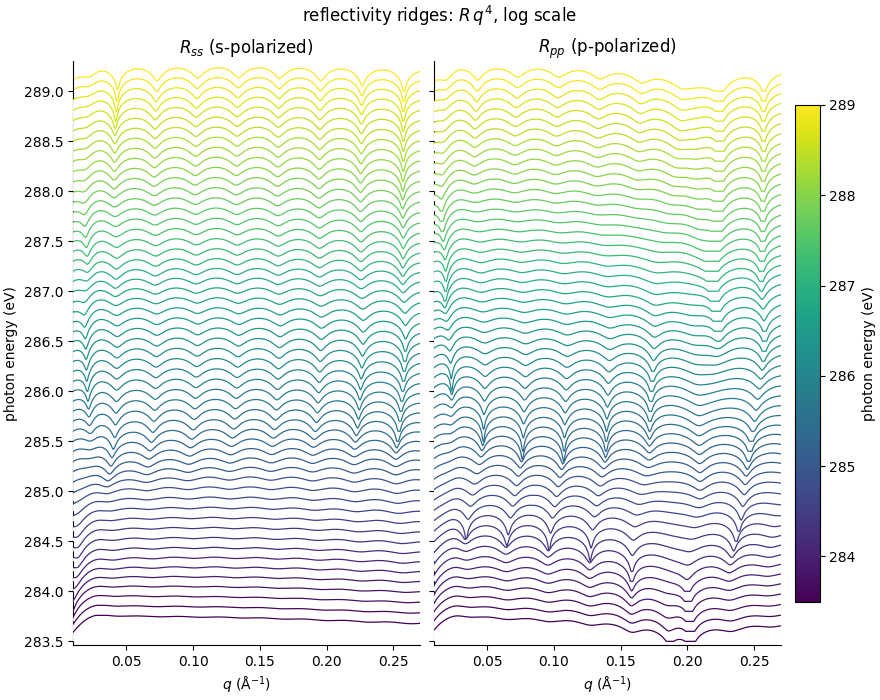
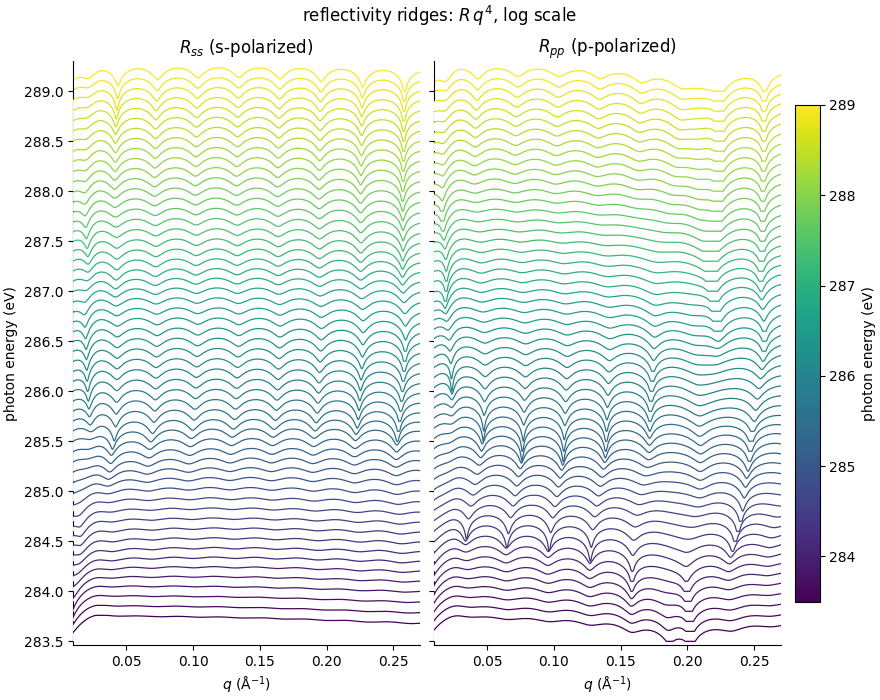
docs: rename third material to znpc_scrambled with swapped and jittered peaks

diff --git a/examples/lineshape_three_material.py b/examples/lineshape_three_material.py
@@ -1,5 +1,5 @@
 #!/usr/bin/env python3
-"""Three-material film: frozen Alq3 and ZnPc fits, a shifted ZnPc, and depth gradients.
+"""Three-material film: frozen Alq3 and ZnPc fits, a scrambled ZnPc, and gradients.
 
 The materials come from the frozen lineshapes fits in
 ``examples/data/lineshapes_materials.json`` (written by
@@ -12,7 +12,9 @@ film on a native SiO2 layer and a silicon substrate: vacuum | film | oxide | Si.
 - ``znpc``: the full uniaxial ZnPc tensor. Each peak's height is the isotropic
   magic-angle strength, and its molecular TDM tilt reproduces the measured
   film-frame anisotropy at the measured molecular tilt `gamma_ref`.
-- ``znpc_shifted``: ZnPc with every peak height nudged by a fixed factor.
+- ``znpc_scrambled``: the ZnPc peak set with three height swaps, jittered heights
+  and small energy shifts, all from one seed. It is a synthetic variant for the
+  demo, not a measured material.
 
 One shared depth shape, a natural cubic `SplineShape` through four knots, drives
 every gradient: the volume fractions, the total density, the orientation gamma,
@@ -54,9 +56,15 @@ DATA_FILE = Path(__file__).resolve().parent / "data" / "lineshapes_materials.jso
 # Illustrative film densities (g/cm^3). The frozen tables are per unit density.
 DENSITY_ALQ3 = 1.31
 DENSITY_ZNPC = 1.60
-# Fixed seed for the shifted-ZnPc height factors.
-SHIFT_SEED = 12345
-SHIFT_RANGE = (0.85, 1.15)
+# Seeded scramble of the ZnPc peaks (one generator, drawn in this order).
+SCRAMBLE_SEED = 2025
+SCRAMBLE_PAIRS = 3  # disjoint height swaps
+SCRAMBLE_TOP = 8  # swap partners come from this many strongest peaks (by F_iso)
+SCRAMBLE_WINDOW = (283.5, 289.5)  # eV, swap candidates lie inside the demo window
+JITTER_SIGMA = 0.15  # lognormal sigma of each height factor
+JITTER_CLIP = (0.7, 1.4)  # height factors are clipped to this range
+SHIFT_SIGMA = 0.05  # eV, Gaussian energy shift of each peak
+SHIFT_CLIP = 0.10  # eV, energy shifts are clipped to +/- this
 
 THICKNESS = 200.0  # film thickness, Angstrom
 N_SLABS = 40
@@ -86,7 +94,7 @@ ALQ3_TILTS_DEG = {
 }
 # ZnPc gamma: interior fractions of the way from MAGIC_ANGLE to gamma_ref.
 ZNPC_GAMMA_FRACTIONS = (0.25, 0.72)
-SHIFTED_GAMMA_FRACTIONS = (0.12, 0.55)
+SCRAMBLED_GAMMA_FRACTIONS = (0.12, 0.55)
 
 
 def make_shape() -> SplineShape:
@@ -244,31 +252,64 @@ def alq3_peaks(shape: Shape, material: dict[str, Any]) -> list[Peak]:
     return peaks
 
 
-def znpc_peaks(
-    material: dict[str, Any], *, factors: NDArray[np.float64] | None = None
-) -> list[Peak]:
-    """ZnPc peaks: height `F_iso`, TDM tilt from `znpc_tilts`, all constant.
-
-    ``factors`` multiplies each height (used for the shifted ZnPc).
-    """
+def znpc_peaks(material: dict[str, Any]) -> list[Peak]:
+    """ZnPc peaks: height `F_iso`, TDM tilt from `znpc_tilts`, all constant."""
     records = material["peaks"]
     _, thetas, _ = znpc_tilts(records)
-    if factors is None:
-        factors = np.ones(len(records))
     return [
-        _gaussian(
-            f"p{i + 1}",
-            rec,
-            znpc_iso(rec) * float(factors[i]),
-            float(thetas[i]),
-        )
+        _gaussian(f"p{i + 1}", rec, znpc_iso(rec), float(thetas[i]))
         for i, rec in enumerate(records)
     ]
 
 
-def shifted_factors(n: int) -> NDArray[np.float64]:
-    """Fixed deterministic height factors in [0.85, 1.15] for the shifted ZnPc."""
-    return np.random.default_rng(SHIFT_SEED).uniform(*SHIFT_RANGE, n)
+def scramble_draw(
+    records: Sequence[dict[str, Any]],
+) -> tuple[list[tuple[int, int]], NDArray[np.float64], NDArray[np.float64]]:
+    """Seeded scramble of the ZnPc peaks: swap pairs, heights and energies.
+
+    Returns the swap pairs (indices into ``records``), the absolute heights
+    after the swaps and the height jitter, and the shifted energies (eV). The
+    swap candidates are the `SCRAMBLE_TOP` strongest peaks by `F_iso` whose
+    original energy lies in `SCRAMBLE_WINDOW`; the seeded generator draws the
+    disjoint pairs among them. Every peak gets a lognormal height factor and a
+    clipped Gaussian energy shift.
+    """
+    rng = np.random.default_rng(SCRAMBLE_SEED)
+    f_iso = np.array([znpc_iso(rec) for rec in records])
+    energy = np.array([float(rec["energy"]) for rec in records])
+    in_window = np.flatnonzero(
+        (energy >= SCRAMBLE_WINDOW[0]) & (energy <= SCRAMBLE_WINDOW[1])
+    )
+    strongest = in_window[np.argsort(-f_iso[in_window])][:SCRAMBLE_TOP]
+    chosen = rng.permutation(strongest)[: 2 * SCRAMBLE_PAIRS]
+    pairs = [(int(a), int(b)) for a, b in chosen.reshape(SCRAMBLE_PAIRS, 2)]
+    heights = f_iso.copy()
+    for a, b in pairs:
+        heights[[a, b]] = f_iso[[b, a]]
+    jitter = np.clip(rng.lognormal(0.0, JITTER_SIGMA, len(records)), *JITTER_CLIP)
+    shift = np.clip(rng.normal(0.0, SHIFT_SIGMA, len(records)), -SHIFT_CLIP, SHIFT_CLIP)
+    return pairs, heights * jitter, energy + shift
+
+
+def scrambled_peaks(material: dict[str, Any]) -> list[Peak]:
+    """ZnPc peaks of the scrambled variant: absolute heights, tilts from `znpc`.
+
+    Tilts and widths stay with their peaks. Only heights and energies change.
+    """
+    records = material["peaks"]
+    _, thetas, _ = znpc_tilts(records)
+    _, heights, energies = scramble_draw(records)
+    return [
+        Peak(
+            "gaussian",
+            label=f"p{i + 1}",
+            energy=float(energies[i]),
+            width=float(rec["width"]),
+            height=float(heights[i]),
+            tdm_tilt=float(thetas[i]),
+        )
+        for i, rec in enumerate(records)
+    ]
 
 
 def curved_gamma(gamma_ref: float, fractions: tuple[float, float]) -> list[float]:
@@ -283,7 +324,6 @@ def build_profile() -> DepthProfile:
     shape = make_shape()
     materials = load_materials()
     gamma_ref, _, _ = znpc_tilts(materials["znpc"]["peaks"])
-    factors = shifted_factors(len(materials["znpc"]["peaks"]))
 
     alq3 = PeakSumSLD(
         alq3_peaks(shape, materials["alq3"]),
@@ -297,14 +337,14 @@ def build_profile() -> DepthProfile:
         density=DENSITY_ZNPC,
         name="znpc",
     )
-    znpc_shifted = PeakSumSLD(
-        znpc_peaks(materials["znpc"], factors=factors),
+    znpc_scrambled = PeakSumSLD(
+        scrambled_peaks(materials["znpc"]),
         baseline=baseline_table(materials["znpc"]),
         density=DENSITY_ZNPC,
-        name="znpc_shifted",
+        name="znpc_scrambled",
     )
     return DepthProfile(
-        Mix([alq3, znpc, znpc_shifted], rule="linear"),
+        Mix([alq3, znpc, znpc_scrambled], rule="linear"),
         thickness=THICKNESS,
         n_slabs=N_SLABS,
         mesh="uniform",
@@ -314,7 +354,7 @@ def build_profile() -> DepthProfile:
         phi=[
             field(shape, "phi_alq3", (0.85, 0.55, 0.45, 0.40)),
             field(shape, "phi_znpc", (0.10, 0.33, 0.35, 0.35)),
-            field(shape, "phi_znpc_shifted", (0.05, 0.12, 0.20, 0.25)),
+            field(shape, "phi_znpc_scrambled", (0.05, 0.12, 0.20, 0.25)),
         ],
         # Orientation gamma (radians), one field per material. Alq3 has a
         # face-on surface (gamma = 0) and reaches the magic angle at the
@@ -328,8 +368,8 @@ def build_profile() -> DepthProfile:
             ),
             field(
                 shape,
-                "gamma_znpc_shifted",
-                curved_gamma(gamma_ref, SHIFTED_GAMMA_FRACTIONS),
+                "gamma_znpc_scrambled",
+                curved_gamma(gamma_ref, SCRAMBLED_GAMMA_FRACTIONS),
             ),
         ],
         # Total density, after mixing: changes mostly toward z = THICKNESS.
@@ -390,7 +430,7 @@ def save_channels(path: Path) -> None:
         (
             "volume fraction $\\phi$",
             1.0,
-            [("phi_0", "alq3"), ("phi_1", "znpc"), ("phi_2", "znpc_shifted")],
+            [("phi_0", "alq3"), ("phi_1", "znpc"), ("phi_2", "znpc_scrambled")],
         ),
         ("total density scale", 1.0, [("density_scale", "density_scale")]),
         (
@@ -399,7 +439,7 @@ def save_channels(path: Path) -> None:
             [
                 ("orientation_0", "alq3"),
                 ("orientation_1", "znpc"),
-                ("orientation_2", "znpc_shifted"),
+                ("orientation_2", "znpc_scrambled"),
             ],
         ),
         (
@@ -450,7 +490,7 @@ def _building_block(
 
 
 def save_materials(path: Path) -> None:
-    """Building blocks: unit-density beta(E) of each material, and the ZnPc shift."""
+    """Building blocks: unit-density beta(E) of each material, and the ZnPc scramble."""
     import matplotlib.pyplot as plt
     from matplotlib.gridspec import GridSpec
 
@@ -458,7 +498,8 @@ def save_materials(path: Path) -> None:
     alq3_rec = materials["alq3"]
     znpc_rec = materials["znpc"]
     gamma_ref, _, _ = znpc_tilts(znpc_rec["peaks"])
-    factors = shifted_factors(len(znpc_rec["peaks"]))
+    _, scr_heights, _ = scramble_draw(znpc_rec["peaks"])
+    f_iso = np.array([znpc_iso(rec) for rec in znpc_rec["peaks"]])
 
     # Alq3: isotropic, fitted (substrate-end) heights, unit density.
     alq3_fitted = _const_alq3(alq3_rec)
@@ -473,12 +514,12 @@ def save_materials(path: Path) -> None:
         rotation=gamma_ref,
     )
     znpc_t = znpc_src.tensor_at_many(FINE)
-    shifted_src = _building_block(
-        znpc_peaks(znpc_rec, factors=factors),
+    scrambled_src = _building_block(
+        scrambled_peaks(znpc_rec),
         baseline_table(znpc_rec),
         rotation=gamma_ref,
     )
-    shifted_t = shifted_src.tensor_at_many(FINE)
+    scrambled_t = scrambled_src.tensor_at_many(FINE)
 
     fig = plt.figure(figsize=(9.2, 5.6), constrained_layout=True)
     grid = GridSpec(2, 3, figure=fig, height_ratios=[3.0, 1.0])
@@ -531,13 +572,13 @@ def save_materials(path: Path) -> None:
     )
     ax_s.plot(
         FINE,
-        shifted_t.imag.trace(axis1=1, axis2=2) / 3.0,
+        scrambled_t.imag.trace(axis1=1, axis2=2) / 3.0,
         color="C1",
         lw=1.6,
         ls="--",
-        label="znpc_shifted, isotropic",
+        label="znpc_scrambled, isotropic",
     )
-    ax_s.set_title("znpc vs znpc_shifted")
+    ax_s.set_title("znpc vs znpc_scrambled")
 
     for ax in (ax_a, ax_z, ax_s):
         ax.set_xlim(283.5, 289.0)
@@ -548,13 +589,21 @@ def save_materials(path: Path) -> None:
     ax_z.tick_params(labelleft=False)
     ax_s.tick_params(labelleft=False)
 
-    pct = 100.0 * (factors - 1.0)
-    centers = np.array([rec["energy"] for rec in znpc_rec["peaks"]])
+    # Only peaks inside the demo window are drawn; the others are left out.
+    centers = np.array([float(rec["energy"]) for rec in znpc_rec["peaks"]])
+    inside = (centers >= SCRAMBLE_WINDOW[0]) & (centers <= SCRAMBLE_WINDOW[1])
+    pct = (100.0 * (scr_heights / f_iso - 1.0))[inside]
+    centers = centers[inside]
     ax_strip.bar(centers, pct, width=0.12, color=np.where(pct >= 0, "C2", "C3"))
     ax_strip.axhline(0.0, color="0.4", lw=0.8)
-    ax_strip.set_xlim(283.5, 289.2)
+    span = float(np.abs(pct).max())
+    ax_strip.set_ylim(-1.25 * span, 1.25 * span)
+    ax_strip.set_xlim(*SCRAMBLE_WINDOW)
     ax_strip.set_ylabel("height change (%)")
-    ax_strip.set_xlabel("ZnPc peak energy (eV), znpc_shifted relative to znpc")
+    ax_strip.set_xlabel(
+        "ZnPc peak energy (eV, original), znpc_scrambled relative to znpc; "
+        "peaks inside the window only"
+    )
     ax_strip.grid(True, axis="y", alpha=0.25)
     fig.savefig(path, dpi=150)
     plt.close(fig)

diff --git a/docs/guides/lineshapes_integration/peak_gradients.md b/docs/guides/lineshapes_integration/peak_gradients.md
@@ -25,8 +25,8 @@ default path).
   the depth gradients.
 - **`znpc`** is the full uniaxial ZnPc tensor, with 19 peaks. Each peak's
   height and TDM tilt come from the ZnPc derivation below.
-- **`znpc_shifted`** is the same ZnPc peak set, with each height multiplied by
-  a fixed factor.
+- **`znpc_scrambled`** is a synthetic variant of the ZnPc peak set, with some
+  heights swapped, jittered heights and small energy shifts. See below.
 
 The density values are illustrative, not measured: Alq3 is 1.31 g/cm$^3$ and
 ZnPc is 1.60 g/cm$^3$. Each `PeakSumSLD` takes its density as an argument,
@@ -81,11 +81,21 @@ strong $\pi^*$ peaks. ZnPc runs from amorphous (`MAGIC_ANGLE`) at the surface
 to that ordered state at the substrate. Some peaks are clipped to the nearest
 reachable tilt, at 0 or $\pi/2$.
 
-### Shifted ZnPc
+### Scrambled ZnPc
 
-`znpc_shifted` has the same peak energies, widths, tilts and baseline as
-`znpc`. Each height is multiplied by a fixed factor between 0.85 and 1.15,
-drawn from `np.random.default_rng(12345).uniform(0.85, 1.15, 19)`.
+`znpc_scrambled` is a synthetic variant for the demo, not a measured material.
+It keeps the `znpc` baseline, widths and per-peak TDM tilts, and changes the
+heights and energies from one generator, `np.random.default_rng(2025)`: three
+disjoint height swaps among the 8 strongest peaks inside 283.5 to 289.5 eV,
+each height times a lognormal factor (sigma 0.15, clipped to 0.7 to 1.4), and
+each energy shifted by a Gaussian (sigma 0.05 eV, clipped to $\pm$0.10 eV).
+The swapped pairs, by original energy, are:
+
+| Swap | Peak energies (eV) |
+|---|---|
+| 1 | 285.06 and 284.40 |
+| 2 | 285.39 and 289.02 |
+| 3 | 284.03 and 287.23 |
 
 ### Construction code
 
@@ -136,14 +146,14 @@ Each channel follows this profile:
 - **Volume fractions.** Alq3 starts at 0.85 and falls fast over the top 60 Å
   to 0.55, then levels off near 0.40 at $z=T$. The two ZnPc layers enrich
   toward the substrate. ZnPc rises from 0.10 to about 0.36 near 90 Å, then
-  settles at 0.35. Shifted ZnPc rises from 0.05 to 0.25. The three fractions
+  settles at 0.35. Scrambled ZnPc rises from 0.05 to 0.25. The three fractions
   sum to 1 at every knot.
 - **Total density.** `density_scale` multiplies the mixed tensor after mixing.
   It runs from 0.85 at the surface to 1.15 at $z=T$. Most of the rise is in
   the lower half.
 - **Orientation.** Alq3 stays near face-on at the surface and reaches the
   magic angle at $z=T$. Both ZnPc layers start at the magic angle and order
-  toward $\gamma_{\rm ref}$, 73.5°, with shifted ZnPc ordering a little later
+  toward $\gamma_{\rm ref}$, 73.5°, with scrambled ZnPc ordering a little later
   in depth.
 - **Alq3 peaks.** The heights of p1 to p3 and the TDM tilts of p1, p2, p4 and
   p5 follow the outline table above.
@@ -159,7 +169,7 @@ Angles are shown in degrees.
 
 Unit-density $\beta(E)$ of alq3 (isotropic), of znpc (the $[0,0]$ and $[2,2]$
 diagonal at $\gamma_{\rm ref}$, and their average), and of znpc against
-znpc_shifted (isotropic average), with the shifted height changes below.
+znpc_scrambled (isotropic average). The strip below shows the per-peak height change of znpc_scrambled relative to znpc, for the peaks inside 283.5 to 289.5 eV only.
 
 ![Building blocks](../../assets/lineshape-gradient-materials.png)
 

diff --git a/docs/guides/lineshapes_integration/index.md b/docs/guides/lineshapes_integration/index.md
@@ -88,7 +88,7 @@ with more detail.
 ## Next
 
 - [Peak gradients](peak_gradients.md): a three-material film (frozen Alq3 and
-  ZnPc fits, a full ZnPc tensor and a shifted ZnPc) with depth-varying
+  ZnPc fits, a full ZnPc tensor and a scrambled ZnPc) with depth-varying
   composition, orientation and peaks, a dense energy set with NEXAFS and ridge
   figures, and the knot fit.
 - [Building structures](../building_structures/index.md): the other depth-law
